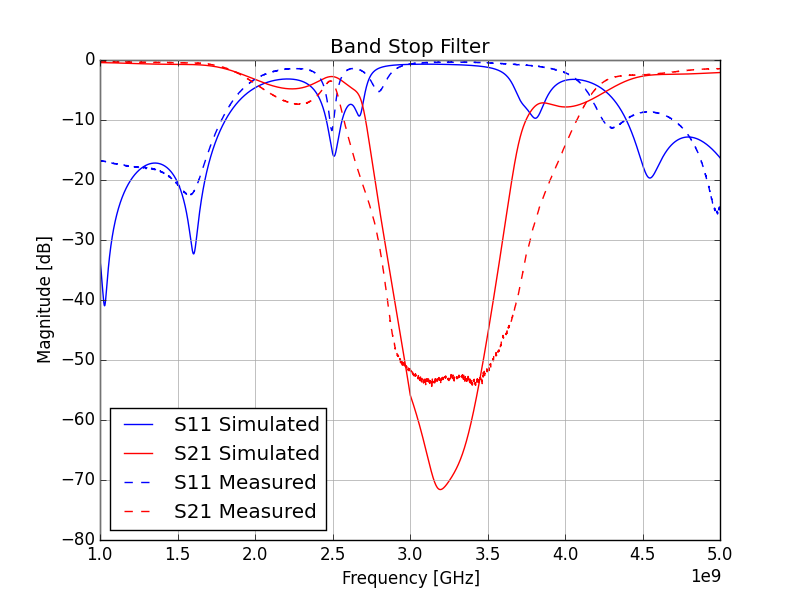
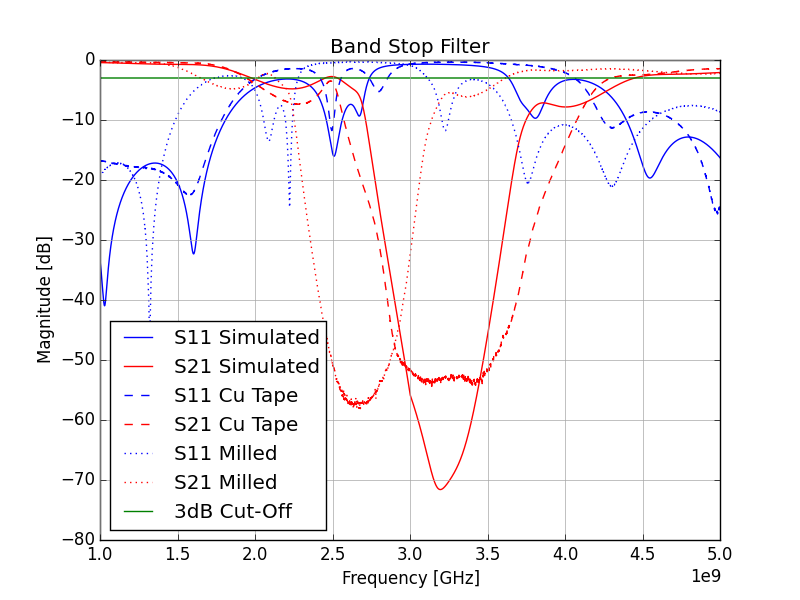
Added Milled Data to plots

diff --git a/Students/joshruff/Lab6/Data/EquiRipplePlot.py b/Students/joshruff/Lab6/Data/EquiRipplePlot.py
@@ -13,6 +13,9 @@ y4 = []
 y5 = []
 y6 = []
 y7 = [] 
+y8 = []
+y9 = []
+
 ##Read .csv data file
 #replace quoted text below with filepath to your .csv file
 with open('EquiRipplet_T-Line-BSF.csv.xls') as csvfile:
@@ -49,14 +52,32 @@ with open('DJ_JR_50ohm_line_dB.csv') as csvfile:
 		if row['Freq(Hz)']!="END":
 			y6.append(float(row['S21 Log Mag(dB)']))
 			y7.append(float(row['S11 Log Mag(dB)']))
+#File 4####################################################################
+##Read .csv data file
+#replace quoted text below with filepath to your .csv file
+with open('Milled_BSF_dB.csv') as csvfile:
+	reader = csv.DictReader(csvfile)
+	for row in reader:
+        #items in '' below need to exactly match the entry in the first row of the columns in the .csv file
+        #edit/add additional lines as needed for each column of data
+		if row['Freq(Hz)']!="END":
+			y8.append(float(row['S11 Log Mag(dB)']))
+			y9.append(float(row['S21 Log Mag(dB)']))
+
 ##Plotting
 plt.figure(1) #initialize plot1
 ax1 = plt.subplot(111) #create axes handle for plot1
 ax1.plot(x, y1, '-b', label="S11 Simulated") #plot y1 vs. x, solid-blue, add lable for legend
 
 ax1.plot(x, y2, '-r', label="S21 Simulated") #plot y2 vs. x, solid-red, add lable for legend
-ax1.plot(x, y3, '--b', label="S11 Measured") #plot y3 vs. x, dashed-red, add lable for legend
-ax1.plot(x, y4, '--r', label="S21 Measured") #plot y3 vs. x, dashed-red, add lable for legend
+ax1.plot(x, y3, '--b', label="S11 Cu Tape") #plot y3 vs. x, dashed-red, add lable for legend
+ax1.plot(x, y4, '--r', label="S21 Cu Tape") #plot y3 vs. x, dashed-red, add lable for legend
+
+ax1.plot(x, y8, ':b', label="S11 Milled") #plot y3 vs. x, dashed-red, add lable for legend
+ax1.plot(x, y9, ':r', label="S21 Milled") #plot y3 vs. x, dashed-red, add lable for legend
+
+ax1.plot(x,y5, '-g', label="3dB Cut-Off")
+
 ax1.set_xlim(min(x), max(x)) #set x-axis limits
 ax1.legend(loc=3) #add legend at location #4 (bottom-right corner)
 

diff --git a/Students/joshruff/Lab6/Data/MaxFlat_T-Line-LPF.py b/Students/joshruff/Lab6/Data/MaxFlat_T-Line-LPF.py
@@ -11,6 +11,9 @@ y2 = []
 y3 = []
 y4 = []
 y5 = []
+y6 = []
+y7 = []
+
 ##Read .csv data file
 #replace quoted text below with filepath to your .csv file
 with open('MaxFlat_T-Line-LPF.csv.xls') as csvfile:
@@ -20,17 +23,29 @@ with open('MaxFlat_T-Line-LPF.csv.xls') as csvfile:
         #edit/add additional lines as needed for each column of data
 		if row['Freq [GHz]']!="END":
 			x.append(float(row['Freq [GHz]'])*1e9)
-			y1.append(float(row['dB(S(2,2)) []']))
 			y2.append(float(row['dB(S(1,1)) []']))
-			y3.append(float(row['dB(S(1,2)) []']))
 			y4.append(float(row['dB(S(2,1)) []']))
 			y5.append(-3)
+##Read .csv data file
+#replace quoted text below with filepath to your .csv file
+with open('Milled_LPF_dB.csv') as csvfile:
+	reader = csv.DictReader(csvfile)
+	for row in reader:
+        #items in '' below need to exactly match the entry in the first row of the columns in the .csv file
+        #edit/add additional lines as needed for each column of data
+		if row['Freq(Hz)']!="END":
+			y6.append(float(row['S11 Log Mag(dB)']))
+			y7.append(float(row['S21 Log Mag(dB)']))
+
 ##Plotting
 plt.figure(1) #initialize plot1
 ax1 = plt.subplot(111) #create axes handle for plot1
 
-ax1.plot(x, y2, '-r', label="S11") #plot y2 vs. x, solid-red, add lable for legend
-ax1.plot(x, y3, '-b', label="S12") #plot y3 vs. x, dashed-red, add lable for legend
+ax1.plot(x, y2, '-r', label="S11 Simulated") #plot y2 vs. x, solid-red, add lable for legend
+ax1.plot(x, y4, '-b', label="S21 Simulated") #plot y3 vs. x, dashed-red, add lable for legend
+ax1.plot(x, y6, '--r', label="S11 Milled") #plot y2 vs. x, solid-red, add lable for legend
+ax1.plot(x, y7, '--b', label="S21 Milled") #plot y3 vs. x, dashed-red, add lable for legend
+
 ax1.plot(x,y5, '--g', label="-3dB Cut-Off")
 #ax2=ax1.twinx()
 
